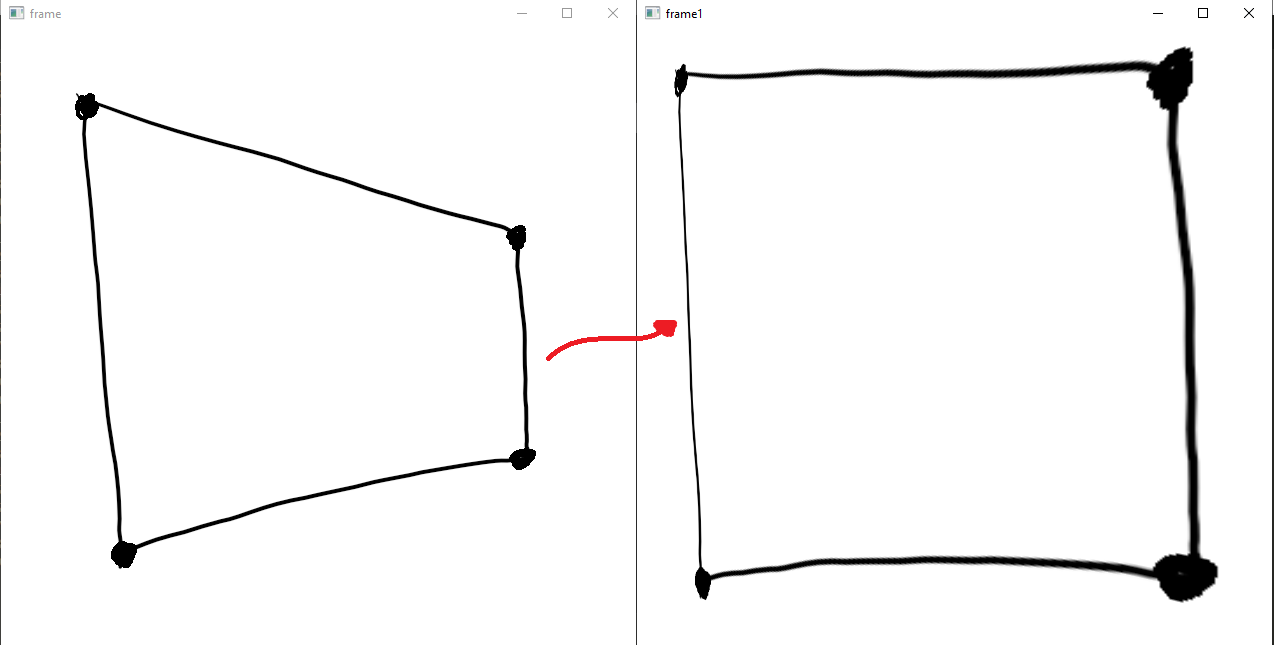
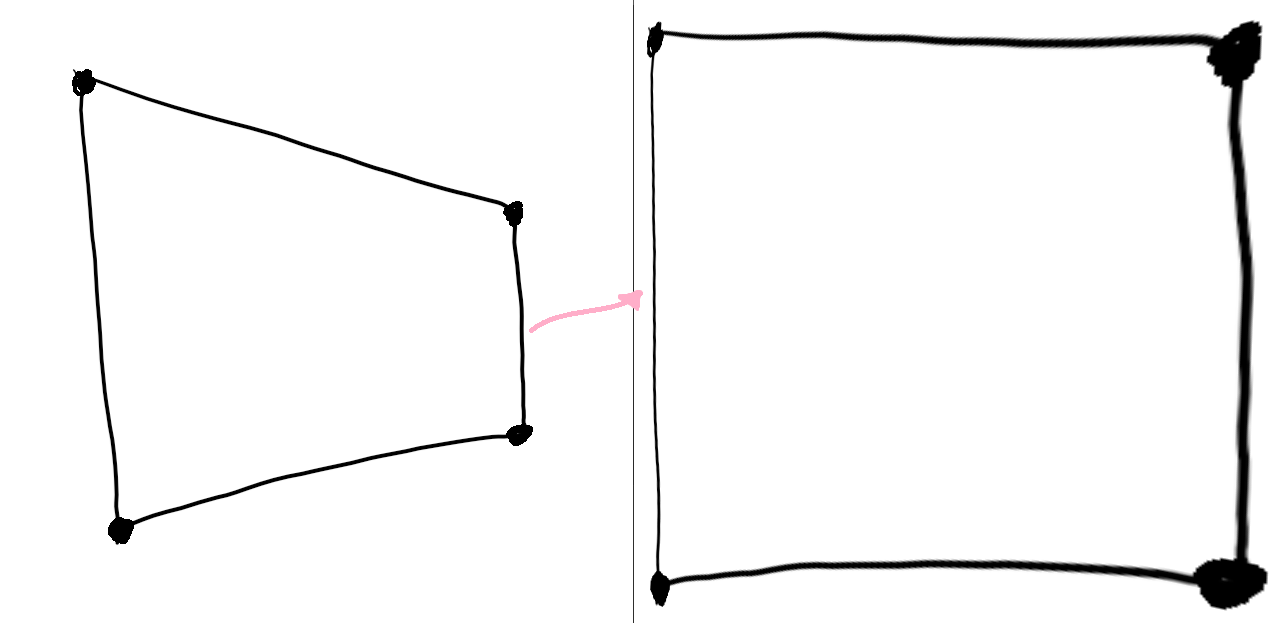
upd demo image

diff --git a/pt-rect.py b/pt-rect.py
@@ -11,7 +11,7 @@ if __name__ == "__main__":
         frame = cv2.imread('media/frame.png', 0) 
       
         # Locate points of the documents or object which you want to transform
-        pts1 = np.float32([[0, 0], [width-80, 200], [0, height], [width-80, 450]])
+        pts1 = np.float32([[52, 38], [527, 191], [89, 562], [536, 442]])
         pts2 = np.float32([[0, 0], [width, 0], [0, height], [width, height]])
           
         # Apply Perspective Transform Algorithm
